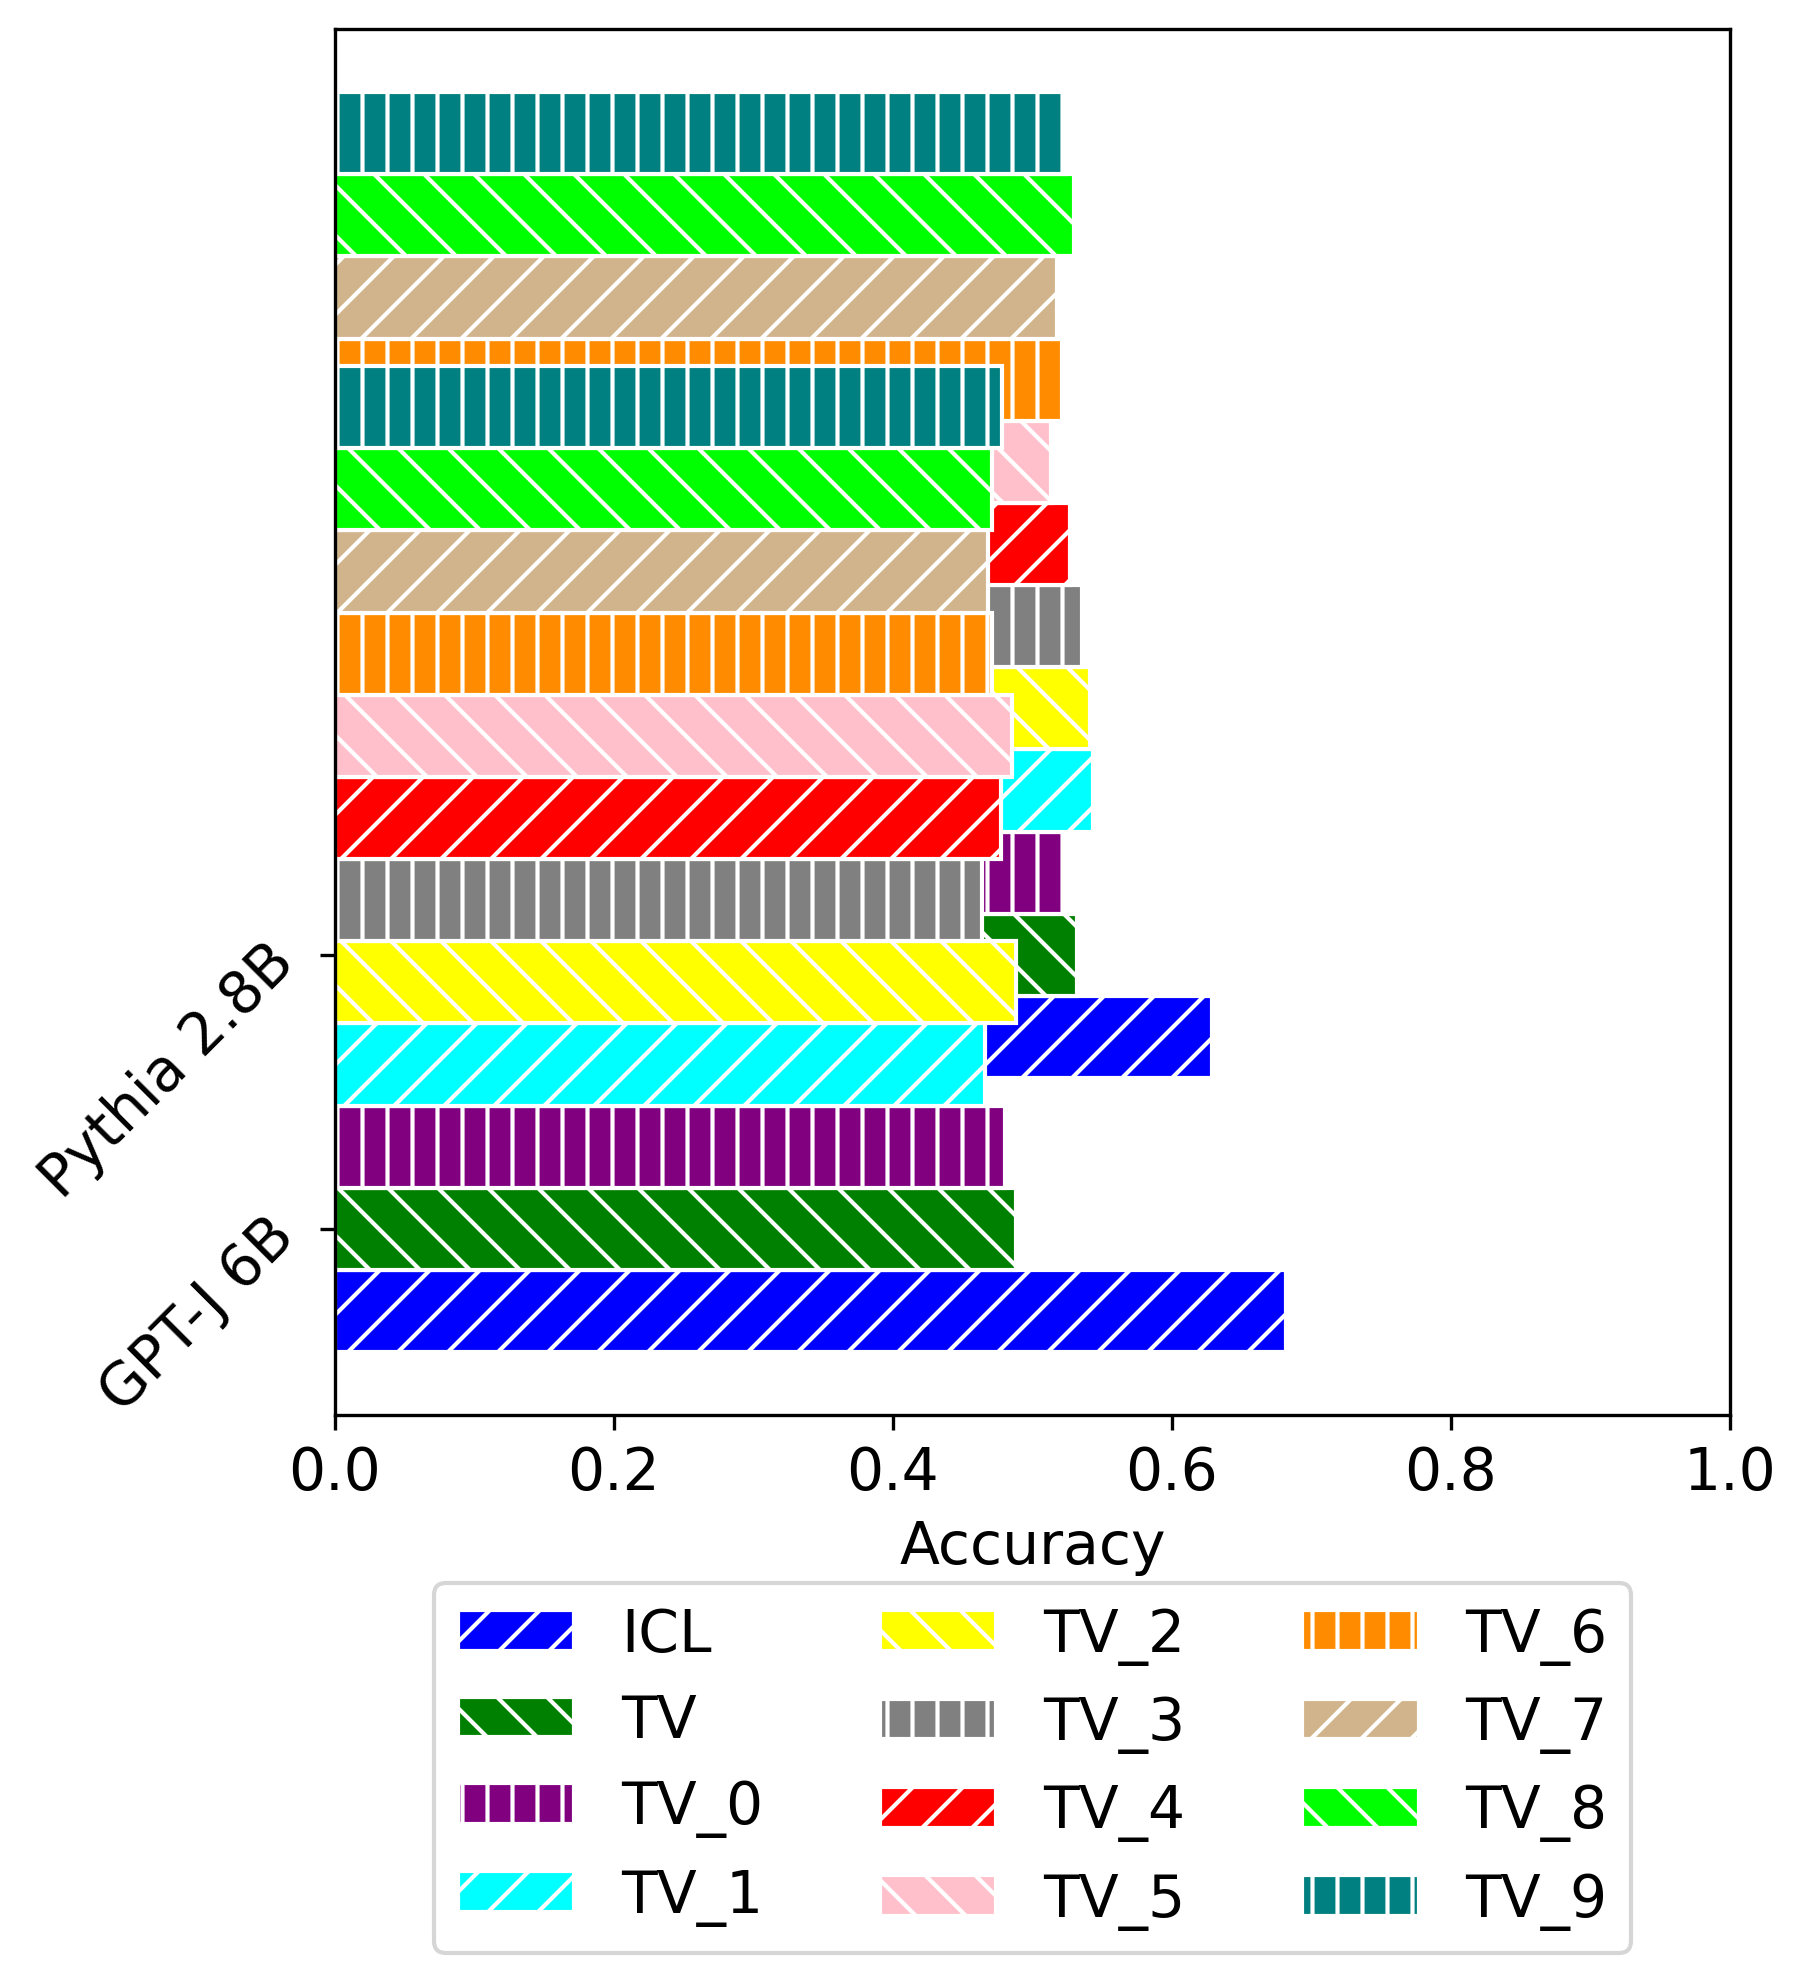
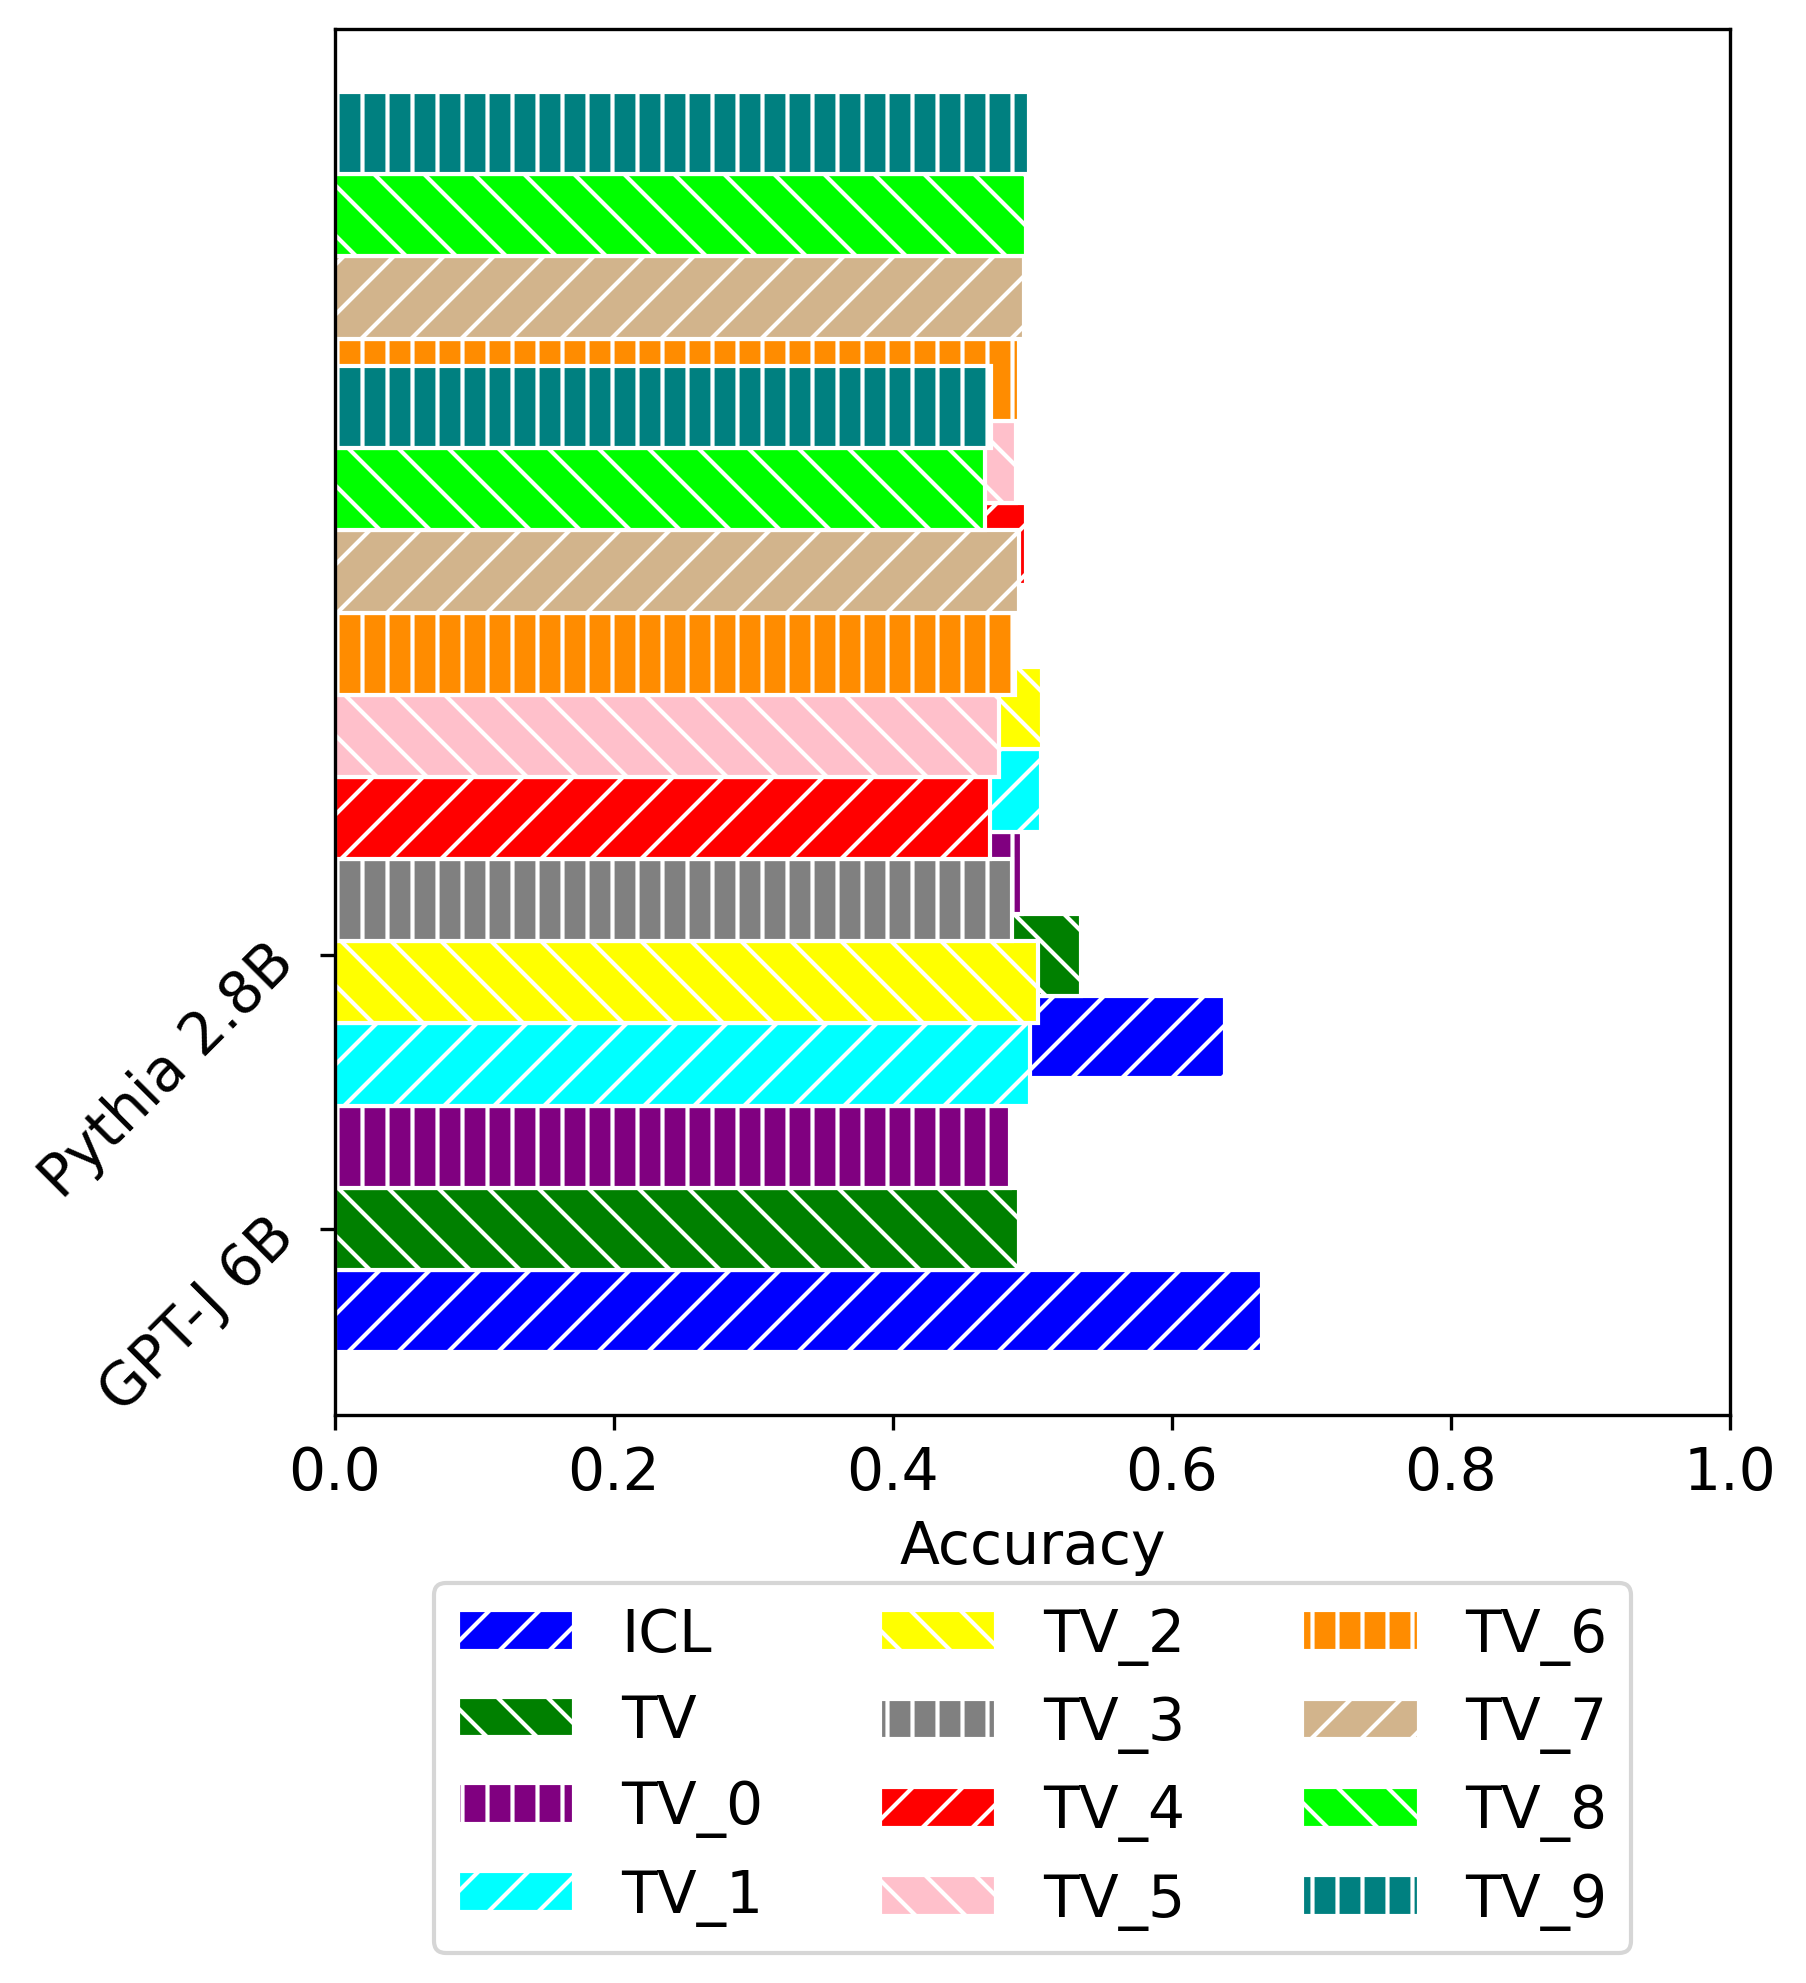
layer+1

Changed region(s): [[0.5271, 0.0308, 0.6202, 0.5845], [0.6512, 0.4922, 0.6822, 0.5537], [0.6822, 0.646, 0.7132, 0.6768]]

diff --git a/outputs/figures/main_experiment_results_table.tex b/outputs/figures/main_experiment_results_table.tex
@@ -19,49 +19,49 @@ Model & Task type & Task name &  &  &  &  &  &  &  &  &  &  &  &  &  \\
 \midrule
     \endhead
     
-\multirow[t]{18}{*}{GPT-J 6B} & \multirow[t]{6}{*}{Algorithmic} & List first & 0.23 & 0.89 & 0.71 & 0.66 & 0.61 & 0.64 & 0.64 & 0.66 & 0.62 & 0.68 & 0.66 & 0.65 & 0.62 \\
- &  & List last & 0.31 & 0.68 & 0.42 & 0.45 & 0.45 & 0.46 & 0.34 & 0.42 & 0.41 & 0.34 & 0.39 & 0.39 & 0.40 \\
- &  & Next letter & 0.19 & 0.75 & 0.84 & 0.90 & 0.93 & 0.90 & 0.91 & 0.91 & 0.88 & 0.85 & 0.88 & 0.89 & 0.89 \\
- &  & Prev letter & 0.08 & 0.10 & 0.23 & 0.23 & 0.21 & 0.24 & 0.21 & 0.19 & 0.20 & 0.21 & 0.23 & 0.26 & 0.19 \\
- &  & To lower & 0.00 & 0.90 & 0.06 & 0.05 & 0.04 & 0.03 & 0.01 & 0.07 & 0.06 & 0.03 & 0.03 & 0.05 & 0.01 \\
- &  & To upper & 0.00 & 1.00 & 0.17 & 0.05 & 0.04 & 0.07 & 0.10 & 0.07 & 0.11 & 0.07 & 0.00 & 0.04 & 0.06 \\
+\multirow[t]{18}{*}{GPT-J 6B} & \multirow[t]{6}{*}{Algorithmic} & List first & 0.23 & 0.89 & 0.71 & 0.66 & 0.57 & 0.61 & 0.53 & 0.51 & 0.50 & 0.55 & 0.59 & 0.57 & 0.56 \\
+ &  & List last & 0.31 & 0.68 & 0.42 & 0.40 & 0.45 & 0.41 & 0.41 & 0.41 & 0.39 & 0.44 & 0.41 & 0.36 & 0.36 \\
+ &  & Next letter & 0.16 & 0.75 & 0.78 & 0.69 & 0.59 & 0.62 & 0.68 & 0.64 & 0.66 & 0.68 & 0.65 & 0.60 & 0.68 \\
+ &  & Prev letter & 0.07 & 0.03 & 0.20 & 0.20 & 0.21 & 0.19 & 0.20 & 0.20 & 0.14 & 0.17 & 0.16 & 0.15 & 0.12 \\
+ &  & To lower & 0.00 & 0.94 & 0.07 & 0.04 & 0.06 & 0.05 & 0.05 & 0.04 & 0.09 & 0.06 & 0.09 & 0.06 & 0.05 \\
+ &  & To upper & 0.00 & 0.99 & 0.14 & 0.30 & 0.33 & 0.42 & 0.26 & 0.38 & 0.30 & 0.36 & 0.31 & 0.30 & 0.31 \\
 \cline{2-16}
- & \multirow[t]{4}{*}{Knowledge} & Country capital & 0.17 & 0.59 & 0.50 & 0.49 & 0.45 & 0.42 & 0.45 & 0.46 & 0.45 & 0.49 & 0.41 & 0.39 & 0.46 \\
- &  & Location continent & 0.01 & 0.57 & 0.42 & 0.40 & 0.35 & 0.42 & 0.49 & 0.45 & 0.35 & 0.46 & 0.40 & 0.47 & 0.41 \\
- &  & Location religion & 0.11 & 0.62 & 0.41 & 0.42 & 0.47 & 0.46 & 0.42 & 0.42 & 0.53 & 0.41 & 0.46 & 0.46 & 0.50 \\
- &  & Person language & 0.00 & 0.75 & 0.68 & 0.66 & 0.71 & 0.70 & 0.69 & 0.68 & 0.66 & 0.68 & 0.68 & 0.68 & 0.66 \\
+ & \multirow[t]{4}{*}{Knowledge} & Country capital & 0.14 & 0.65 & 0.47 & 0.47 & 0.56 & 0.46 & 0.49 & 0.41 & 0.51 & 0.55 & 0.56 & 0.49 & 0.47 \\
+ &  & Location continent & 0.03 & 0.62 & 0.45 & 0.45 & 0.49 & 0.40 & 0.50 & 0.44 & 0.44 & 0.36 & 0.41 & 0.39 & 0.44 \\
+ &  & Location religion & 0.06 & 0.54 & 0.47 & 0.41 & 0.57 & 0.53 & 0.40 & 0.45 & 0.44 & 0.47 & 0.47 & 0.36 & 0.40 \\
+ &  & Person language & 0.02 & 0.79 & 0.78 & 0.75 & 0.78 & 0.74 & 0.79 & 0.78 & 0.79 & 0.74 & 0.72 & 0.71 & 0.75 \\
 \cline{2-16}
- & \multirow[t]{4}{*}{Linguistic} & Antonyms & 0.33 & 0.70 & 0.59 & 0.62 & 0.56 & 0.64 & 0.57 & 0.60 & 0.64 & 0.60 & 0.66 & 0.64 & 0.64 \\
- &  & Plural singular & 0.03 & 0.62 & 0.60 & 0.53 & 0.61 & 0.59 & 0.61 & 0.55 & 0.59 & 0.53 & 0.64 & 0.44 & 0.64 \\
- &  & Present simple gerund & 0.00 & 0.50 & 0.45 & 0.53 & 0.46 & 0.57 & 0.41 & 0.44 & 0.45 & 0.46 & 0.47 & 0.50 & 0.41 \\
- &  & Present simple past simple & 0.00 & 0.50 & 0.54 & 0.60 & 0.42 & 0.50 & 0.45 & 0.55 & 0.57 & 0.65 & 0.53 & 0.56 & 0.49 \\
+ & \multirow[t]{4}{*}{Linguistic} & Antonyms & 0.30 & 0.66 & 0.60 & 0.46 & 0.46 & 0.50 & 0.50 & 0.44 & 0.49 & 0.45 & 0.50 & 0.49 & 0.39 \\
+ &  & Plural singular & 0.09 & 0.60 & 0.55 & 0.61 & 0.68 & 0.70 & 0.64 & 0.57 & 0.60 & 0.68 & 0.72 & 0.65 & 0.66 \\
+ &  & Present simple gerund & 0.00 & 0.61 & 0.46 & 0.54 & 0.46 & 0.53 & 0.51 & 0.50 & 0.49 & 0.59 & 0.51 & 0.47 & 0.45 \\
+ &  & Present simple past simple & 0.01 & 0.56 & 0.51 & 0.55 & 0.59 & 0.56 & 0.64 & 0.64 & 0.50 & 0.54 & 0.55 & 0.61 & 0.59 \\
 \cline{2-16}
- & \multirow[t]{4}{*}{Translation} & En es & 0.25 & 0.36 & 0.40 & 0.41 & 0.42 & 0.36 & 0.42 & 0.41 & 0.38 & 0.39 & 0.39 & 0.42 & 0.41 \\
- &  & En fr & 0.23 & 0.28 & 0.40 & 0.36 & 0.34 & 0.39 & 0.36 & 0.40 & 0.39 & 0.36 & 0.41 & 0.40 & 0.38 \\
- &  & Es en & 0.06 & 0.65 & 0.54 & 0.45 & 0.47 & 0.51 & 0.45 & 0.47 & 0.49 & 0.45 & 0.42 & 0.53 & 0.55 \\
- &  & Fr en & 0.10 & 0.50 & 0.39 & 0.39 & 0.40 & 0.40 & 0.41 & 0.39 & 0.46 & 0.38 & 0.40 & 0.39 & 0.42 \\
+ & \multirow[t]{4}{*}{Translation} & En es & 0.18 & 0.41 & 0.42 & 0.45 & 0.44 & 0.44 & 0.44 & 0.40 & 0.41 & 0.42 & 0.42 & 0.42 & 0.45 \\
+ &  & En fr & 0.15 & 0.42 & 0.51 & 0.47 & 0.50 & 0.54 & 0.50 & 0.50 & 0.51 & 0.49 & 0.51 & 0.50 & 0.50 \\
+ &  & Es en & 0.10 & 0.60 & 0.55 & 0.53 & 0.54 & 0.51 & 0.49 & 0.45 & 0.47 & 0.45 & 0.50 & 0.50 & 0.45 \\
+ &  & Fr en & 0.10 & 0.59 & 0.42 & 0.44 & 0.41 & 0.54 & 0.44 & 0.44 & 0.50 & 0.46 & 0.39 & 0.42 & 0.49 \\
 \cline{1-16} \cline{2-16}
-\multirow[t]{18}{*}{Pythia 2.8B} & \multirow[t]{6}{*}{Algorithmic} & List first & 0.65 & 0.95 & 0.95 & 0.93 & 0.91 & 0.91 & 0.94 & 0.91 & 0.94 & 0.89 & 0.89 & 0.93 & 0.93 \\
- &  & List last & 0.02 & 0.84 & 0.82 & 0.74 & 0.81 & 0.82 & 0.75 & 0.79 & 0.71 & 0.74 & 0.71 & 0.85 & 0.79 \\
- &  & Next letter & 0.53 & 0.71 & 0.68 & 0.70 & 0.71 & 0.66 & 0.76 & 0.71 & 0.68 & 0.66 & 0.69 & 0.70 & 0.72 \\
- &  & Prev letter & 0.00 & 0.06 & 0.10 & 0.09 & 0.11 & 0.11 & 0.09 & 0.07 & 0.10 & 0.09 & 0.10 & 0.10 & 0.10 \\
- &  & To lower & 0.00 & 0.79 & 0.53 & 0.40 & 0.50 & 0.56 & 0.55 & 0.41 & 0.44 & 0.44 & 0.50 & 0.57 & 0.42 \\
- &  & To upper & 0.00 & 0.99 & 0.86 & 0.91 & 0.90 & 0.97 & 0.91 & 0.99 & 0.90 & 0.94 & 0.94 & 0.86 & 0.94 \\
+\multirow[t]{18}{*}{Pythia 2.8B} & \multirow[t]{6}{*}{Algorithmic} & List first & 0.65 & 0.95 & 0.95 & 0.86 & 0.85 & 0.78 & 0.78 & 0.89 & 0.81 & 0.76 & 0.81 & 0.82 & 0.80 \\
+ &  & List last & 0.02 & 0.84 & 0.82 & 0.46 & 0.49 & 0.54 & 0.56 & 0.47 & 0.53 & 0.42 & 0.47 & 0.46 & 0.53 \\
+ &  & Next letter & 0.43 & 0.59 & 0.57 & 0.49 & 0.55 & 0.53 & 0.54 & 0.55 & 0.53 & 0.51 & 0.53 & 0.57 & 0.59 \\
+ &  & Prev letter & 0.02 & 0.03 & 0.11 & 0.09 & 0.06 & 0.10 & 0.10 & 0.06 & 0.06 & 0.10 & 0.05 & 0.10 & 0.09 \\
+ &  & To lower & 0.00 & 0.74 & 0.42 & 0.11 & 0.14 & 0.17 & 0.11 & 0.11 & 0.10 & 0.10 & 0.11 & 0.10 & 0.10 \\
+ &  & To upper & 0.00 & 0.99 & 0.91 & 0.88 & 0.91 & 0.88 & 0.90 & 0.93 & 0.94 & 0.91 & 0.85 & 0.90 & 0.94 \\
 \cline{2-16}
- & \multirow[t]{4}{*}{Knowledge} & Country capital & 0.14 & 0.44 & 0.53 & 0.49 & 0.44 & 0.47 & 0.47 & 0.46 & 0.42 & 0.51 & 0.49 & 0.41 & 0.47 \\
- &  & Location continent & 0.01 & 0.55 & 0.42 & 0.47 & 0.47 & 0.44 & 0.57 & 0.54 & 0.39 & 0.56 & 0.46 & 0.51 & 0.50 \\
- &  & Location religion & 0.12 & 0.40 & 0.31 & 0.38 & 0.41 & 0.38 & 0.34 & 0.34 & 0.41 & 0.29 & 0.36 & 0.33 & 0.36 \\
- &  & Person language & 0.00 & 0.55 & 0.57 & 0.64 & 0.56 & 0.53 & 0.59 & 0.50 & 0.56 & 0.57 & 0.56 & 0.54 & 0.50 \\
+ & \multirow[t]{4}{*}{Knowledge} & Country capital & 0.17 & 0.61 & 0.59 & 0.56 & 0.60 & 0.57 & 0.59 & 0.54 & 0.60 & 0.60 & 0.59 & 0.54 & 0.55 \\
+ &  & Location continent & 0.02 & 0.59 & 0.51 & 0.51 & 0.50 & 0.57 & 0.54 & 0.47 & 0.41 & 0.45 & 0.41 & 0.49 & 0.51 \\
+ &  & Location religion & 0.06 & 0.38 & 0.31 & 0.46 & 0.50 & 0.55 & 0.41 & 0.39 & 0.39 & 0.47 & 0.46 & 0.41 & 0.49 \\
+ &  & Person language & 0.01 & 0.54 & 0.55 & 0.53 & 0.57 & 0.55 & 0.57 & 0.60 & 0.57 & 0.55 & 0.57 & 0.53 & 0.51 \\
 \cline{2-16}
- & \multirow[t]{4}{*}{Linguistic} & Antonyms & 0.44 & 0.59 & 0.55 & 0.53 & 0.46 & 0.55 & 0.46 & 0.49 & 0.51 & 0.50 & 0.47 & 0.49 & 0.51 \\
- &  & Plural singular & 0.06 & 0.56 & 0.54 & 0.47 & 0.59 & 0.54 & 0.51 & 0.57 & 0.50 & 0.51 & 0.51 & 0.45 & 0.50 \\
- &  & Present simple gerund & 0.00 & 0.61 & 0.36 & 0.31 & 0.34 & 0.31 & 0.39 & 0.35 & 0.33 & 0.34 & 0.30 & 0.39 & 0.30 \\
- &  & Present simple past simple & 0.02 & 0.68 & 0.55 & 0.59 & 0.65 & 0.61 & 0.59 & 0.54 & 0.61 & 0.54 & 0.47 & 0.57 & 0.60 \\
+ & \multirow[t]{4}{*}{Linguistic} & Antonyms & 0.39 & 0.51 & 0.36 & 0.33 & 0.34 & 0.34 & 0.35 & 0.36 & 0.31 & 0.33 & 0.36 & 0.31 & 0.31 \\
+ &  & Plural singular & 0.05 & 0.49 & 0.44 & 0.44 & 0.45 & 0.46 & 0.45 & 0.49 & 0.46 & 0.50 & 0.45 & 0.53 & 0.51 \\
+ &  & Present simple gerund & 0.00 & 0.61 & 0.39 & 0.38 & 0.36 & 0.34 & 0.31 & 0.46 & 0.38 & 0.35 & 0.45 & 0.39 & 0.34 \\
+ &  & Present simple past simple & 0.05 & 0.66 & 0.59 & 0.61 & 0.56 & 0.50 & 0.46 & 0.59 & 0.51 & 0.57 & 0.59 & 0.57 & 0.55 \\
 \cline{2-16}
- & \multirow[t]{4}{*}{Translation} & En es & 0.06 & 0.34 & 0.26 & 0.26 & 0.28 & 0.29 & 0.28 & 0.29 & 0.25 & 0.28 & 0.25 & 0.26 & 0.26 \\
- &  & En fr & 0.15 & 0.35 & 0.33 & 0.33 & 0.29 & 0.30 & 0.33 & 0.31 & 0.33 & 0.26 & 0.33 & 0.31 & 0.34 \\
- &  & Es en & 0.10 & 0.57 & 0.39 & 0.35 & 0.35 & 0.34 & 0.31 & 0.33 & 0.33 & 0.28 & 0.34 & 0.33 & 0.31 \\
- &  & Fr en & 0.21 & 0.54 & 0.35 & 0.39 & 0.40 & 0.40 & 0.30 & 0.36 & 0.40 & 0.42 & 0.46 & 0.41 & 0.45 \\
+ & \multirow[t]{4}{*}{Translation} & En es & 0.11 & 0.26 & 0.20 & 0.20 & 0.19 & 0.19 & 0.20 & 0.19 & 0.19 & 0.20 & 0.19 & 0.20 & 0.19 \\
+ &  & En fr & 0.10 & 0.36 & 0.30 & 0.28 & 0.31 & 0.29 & 0.30 & 0.30 & 0.30 & 0.29 & 0.33 & 0.31 & 0.31 \\
+ &  & Es en & 0.13 & 0.59 & 0.35 & 0.44 & 0.44 & 0.50 & 0.41 & 0.39 & 0.44 & 0.46 & 0.41 & 0.49 & 0.40 \\
+ &  & Fr en & 0.16 & 0.60 & 0.35 & 0.39 & 0.40 & 0.40 & 0.41 & 0.31 & 0.40 & 0.41 & 0.40 & 0.40 & 0.42 \\
 \cline{1-16} \cline{2-16}
 \bottomrule
 \end{longtable}

diff --git a/outputs/figures/top_tokens_table.tex b/outputs/figures/top_tokens_table.tex
@@ -2,15 +2,15 @@
 \toprule
  &  & 0 \\
 \midrule
-\multirow[t]{4}{*}{pythia_2.8B} & algorithmic_prev_letter & pril, ndef, ibase, amsfonts, Syrac, amsbsy, tocol, aeda, amssymb, erl, BytePtrFromString, lemn, OOST, advertis, obuf, answ, debted, omitempty, errnoErr, isel \\
- & translation_fr_en & PLIED, OOST, CURI, ovember, Accessor, THEORY, plural, fileID, RAF, REEK, aturday, HECK, PARTICULAR, perty, SAME, prehens, qc, NRAS, SEQU, noc \\
- & linguistic_present_simple_gerund & PLIED, RAF, prehens, Accessor, fileID, SAME, gree, cknowled, YING, CLUDING, OOST, ACP, REEK, CHANT, FromString, uh, turning, ovember, rans, measurement \\
- & knowledge_country_capital & thous, answ, CURI, HECK, advertis, establ, uncert, orche, OOST, laug, satell, NaN, clust, acknow, infin, POSE, congression, RAF, assertEquals, strugg \\
+\multirow[t]{4}{*}{pythia_2.8B} & algorithmic_prev_letter & thous, OOST, aeda, satell, PARTICULAR, ovember, CURI, advertis, prehens, THEORY, perty, Syrac, foo, vess, aaaaaaaa, IRST, woke, orche, zombie, heimer \\
+ & translation_fr_en & PLIED, OOST, ovember, CURI, plural, THEORY, fileID, REEK, Accessor, RAF, aturday, HECK, perty, prehens, SAME, eft, PARTICULAR, SEQU, omitempty, CLUDING \\
+ & linguistic_present_simple_gerund & PLIED, prehens, RAF, fileID, Accessor, YING, cknowled, SAME, REEK, CLUDING, ACP, gree, CHANT, ovember, OOST, FromString, IPT, rans, measurement, uh \\
+ & knowledge_country_capital & thous, answ, CURI, HECK, advertis, establ, orche, uncert, OOST, satell, laug, NaN, clust, POSE, RAF, acknow, infin, assertEquals, SAME, therap \\
 \cline{1-3}
-\multirow[t]{4}{*}{gpt-j_6B} & algorithmic_prev_letter & name, is, v, world, next, g, s, id, m, ro, c, os, us, test, set, es, red, the, another, a \\
- & translation_fr_en & world, s, next, is, name, car, related, d, per, heart, the, get, more, user, item, search, active, re, all, n \\
- & linguistic_present_simple_gerund & active, using, world, being, related, s, getting, per, playing, d, the, user, something, life, is, going, more, learning, repl, talking \\
- & knowledge_country_capital & West, London, South, Northern, East, Eastern, Germany, New, Berlin, Paris, North, The, Tokyo, city, San, Philadelphia, United, Jerusalem, Republic, southern \\
+\multirow[t]{4}{*}{gpt-j_6B} & algorithmic_prev_letter & name, v, id, s, is, m, es, value, test, next, n, c, x, world, g, d, related, ms, a, open \\
+ & translation_fr_en & s, more, world, new, is, per, the, related, d, user, next, name, get, active, time, main, c, n, m, day \\
+ & linguistic_present_simple_gerund & active, using, world, being, s, user, per, related, getting, d, the, playing, life, is, death, something, search, more, down, A \\
+ & knowledge_country_capital & West, London, South, Germany, Northern, Eastern, East, New, North, Berlin, United, Tokyo, Paris, The, Spain, Mexico, California, City, southern, Republic \\
 \cline{1-3}
 \bottomrule
 \end{tabular}

diff --git a/core/task_vectors.py b/core/task_vectors.py
@@ -103,7 +103,7 @@ def stack_helper(
         task,
         test_datasets,
         task_hiddens=new_task_hiddens,
-        intermediate_layer=best_intermediate_layer + 1,
+        intermediate_layer=best_intermediate_layer,
         #      include_train=True
     )
     return new_task_hiddens, stack_predictions

diff --git a/scripts/experiments/main.py b/scripts/experiments/main.py
@@ -99,7 +99,7 @@ def run_main_experiment(
 
     tasks = get_all_tasks(tokenizer=tokenizer)
 
-    num_examples = 1
+    num_examples = 3
 
     for i, task_name in enumerate(TASKS_TO_EVALUATE):
         task = tasks[task_name]

diff --git a/scripts/figures/main.py b/scripts/figures/main.py
@@ -309,5 +309,5 @@ def create_all_figures(experiment_id: str):
 
 
 if __name__ == "__main__":
-    experiment_id = "22"
+    experiment_id = "23"
     create_all_figures(experiment_id)
